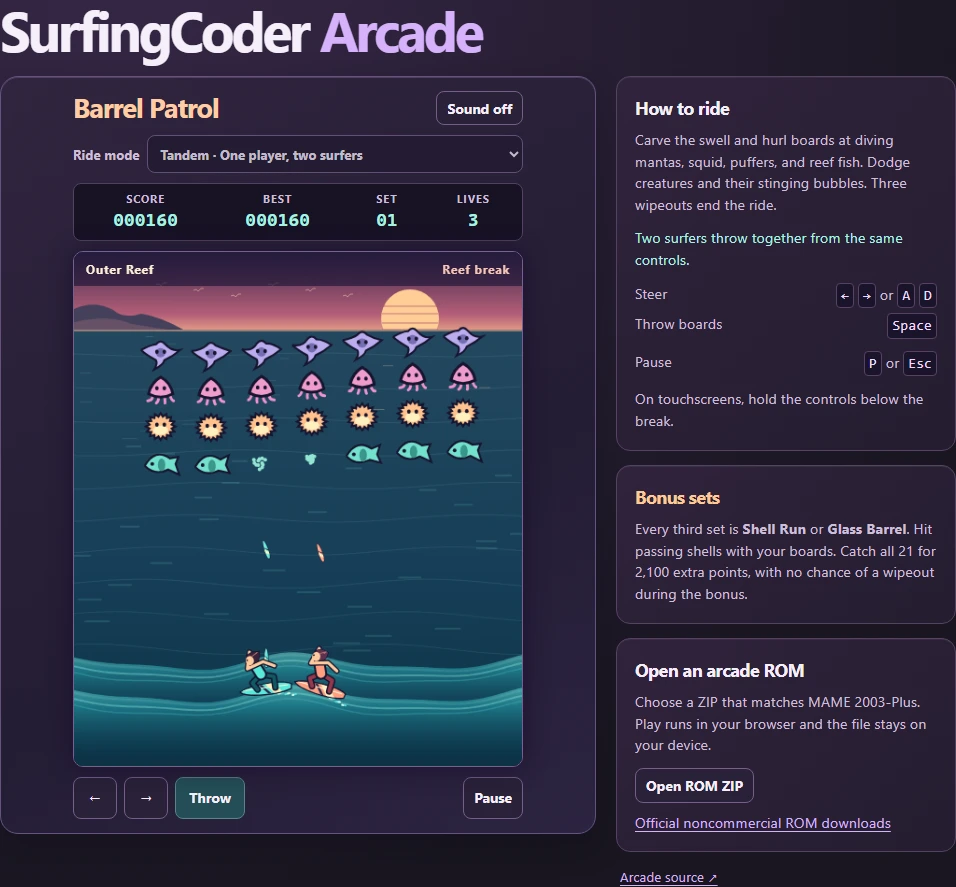
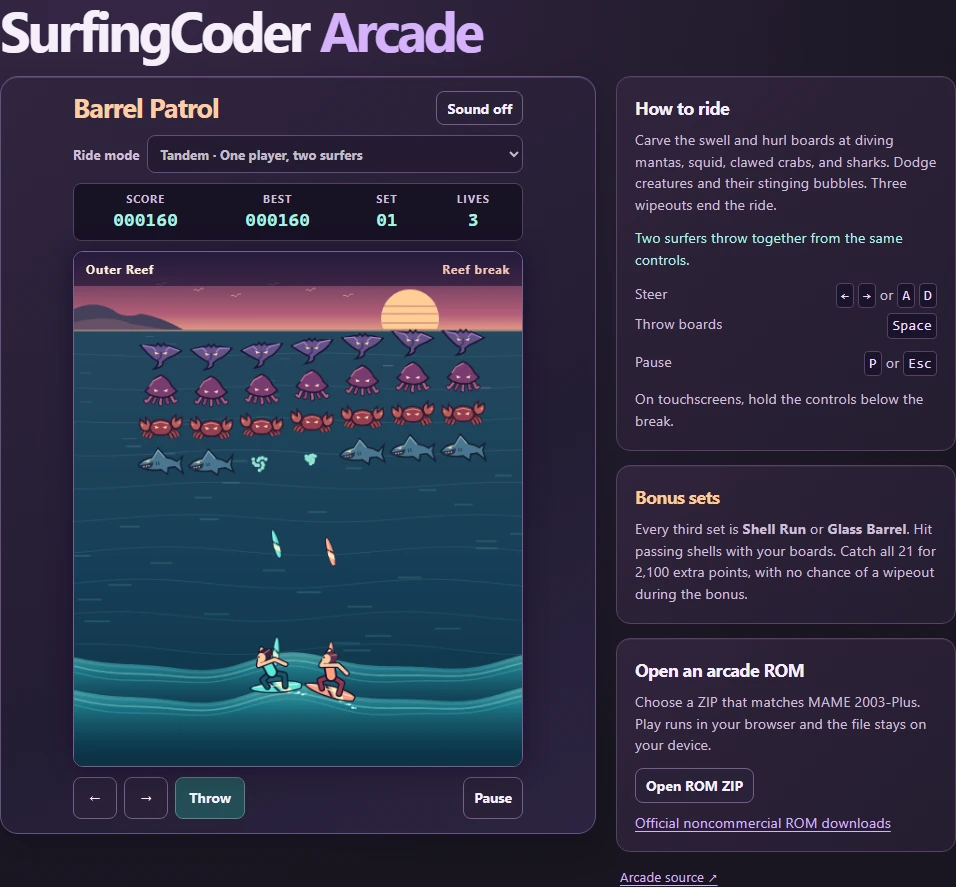
Redraw Barrel Patrol predators and thrown boards

diff --git a/patrol-art.js b/patrol-art.js
@@ -97,72 +97,148 @@ function ride(ctx, surfer, time, shield, reduced) {
   ctx.restore()
 }
 
-function creature(ctx, row, animation) {
-  ctx.strokeStyle = outline
-  ctx.lineWidth = 2.1
-  if (row === 0) {
-    ctx.fillStyle = '#bbacee'
-    ctx.beginPath()
-    ctx.moveTo(-21, -4)
-    ctx.quadraticCurveTo(-10, -6 - animation, -5, -10)
-    ctx.quadraticCurveTo(0, -16, 5, -10)
-    ctx.quadraticCurveTo(12, -6 + animation, 21, -4)
-    ctx.quadraticCurveTo(13, 3, 4, 7)
-    ctx.quadraticCurveTo(3, 12, -7, 17)
-    ctx.quadraticCurveTo(-3, 11, -5, 7)
-    ctx.quadraticCurveTo(-16, 1, -21, -4)
-    ctx.fill()
-    ctx.stroke()
-    ellipse(ctx, 0, -1, 5, 5, '#756eb0')
-  } else if (row === 1) {
-    ctx.lineCap = 'round'
-    for (const x of [-9, -3, 3, 9]) {
-      ctx.beginPath()
-      ctx.moveTo(x, 2)
-      ctx.quadraticCurveTo(x + animation * .6, 11, x * 1.54, 15 - Math.abs(x) * .4)
-      ctx.strokeStyle = '#ef93cc'
-      ctx.lineWidth = 3
-      ctx.stroke()
-    }
-    ctx.fillStyle = '#f09ccc'
-    ctx.beginPath()
-    ctx.moveTo(-13, 4)
-    ctx.quadraticCurveTo(-10, -8, 0, -14)
-    ctx.quadraticCurveTo(11, -8, 13, 4)
-    ctx.quadraticCurveTo(0, 11, -13, 4)
-    ctx.fill()
-    ctx.strokeStyle = outline
-    ctx.stroke()
-  } else if (row === 2) {
-    ctx.fillStyle = '#ffc18d'
-    ctx.beginPath()
-    for (let i = 0; i < 32; i++) {
-      const angle = i * Math.PI / 16, radius = i % 2 ? 12 : 16
-      ctx.lineTo(Math.cos(angle) * radius, Math.sin(angle) * radius * .9)
-    }
-    ctx.closePath()
-    ctx.fill()
-    ctx.stroke()
-    ellipse(ctx, 0, 4, 8, 5, '#fff0be')
-  } else {
-    ctx.fillStyle = '#73e1cd'
-    ctx.beginPath()
-    ctx.moveTo(-17, 3)
-    ctx.quadraticCurveTo(-6, -16, 10, -5)
-    ctx.lineTo(19, -9 + animation * .65)
-    ctx.lineTo(16, 1)
-    ctx.lineTo(20, 10 + animation * .65)
-    ctx.lineTo(8, 7)
-    ctx.quadraticCurveTo(-6, 14, -17, 3)
-    ctx.fill()
-    ctx.stroke()
-    ellipse(ctx, 1, 2, 4, 6.8, '#3a968b')
-    ellipse(ctx, -9, 1, 2, 2, outline)
-    return
-  }
-  ellipse(ctx, -4, -2, 1.9, 2.2, outline)
-  ellipse(ctx, 4, -2, 1.9, 2.2, outline)
+function paintCreaturePart(ctx, color, edge = outline) {
+  ctx.closePath()
+  ctx.fillStyle = color
+  ctx.fill()
+  ctx.strokeStyle = edge
+  ctx.lineWidth = 1.65
+  ctx.stroke()
 }
+
+function glare(ctx, x, y, side, color) {
+  ctx.beginPath()
+  ctx.moveTo(x - side * 2.6, y - 1.9)
+  ctx.lineTo(x + side * 2.4, y + .2)
+  ctx.lineTo(x - side * 1.6, y + 1.4)
+  ctx.closePath()
+  ctx.fillStyle = color
+  ctx.fill()
+}
+
+function manta(ctx, flap) {
+  ctx.beginPath()
+  ctx.moveTo(-22, -6 - flap * .8)
+  ctx.lineTo(-8, -9)
+  ctx.quadraticCurveTo(-5, -7, -3, -11)
+  ctx.lineTo(0, -8)
+  ctx.lineTo(3, -11)
+  ctx.quadraticCurveTo(5, -7, 8, -9)
+  ctx.lineTo(22, -6 + flap * .8)
+  ctx.quadraticCurveTo(15, 2, 7, 5)
+  ctx.quadraticCurveTo(3, 8, 2, 9)
+  ctx.quadraticCurveTo(4, 14, -7, 16)
+  ctx.quadraticCurveTo(-2, 12, -3, 8)
+  ctx.quadraticCurveTo(-9, 6, -22, -6 - flap * .8)
+  paintCreaturePart(ctx, '#65528a', '#191531')
+  stroke(ctx, [[-20, -6 - flap * .8], [-9, -7], [-5, -3]], '#ae8acf', 1.2)
+  stroke(ctx, [[20, -6 + flap * .8], [9, -7], [5, -3]], '#ae8acf', 1.2)
+  stroke(ctx, [[0, -2], [0, 4], [-4, 7]], '#3f315f', 1.4)
+  glare(ctx, -4.2, -.5, 1, '#ffd8a0')
+  glare(ctx, 4.2, -.5, -1, '#ffd8a0')
+}
+
+function squid(ctx, ripple) {
+  ctx.lineCap = 'round'
+  for (const x of [-10, -5, 0, 5, 10]) {
+    ctx.beginPath()
+    ctx.moveTo(x * .76, 3)
+    ctx.bezierCurveTo(x * 1.5 + ripple * .38, 10, x * 1.35 - ripple * .55, 15, x * 1.65, 15 - Math.abs(x) * .4)
+    ctx.strokeStyle = '#221630'
+    ctx.lineWidth = 4.4
+    ctx.stroke()
+    ctx.strokeStyle = x % 2 ? '#944478' : '#b76088'
+    ctx.lineWidth = 2.45
+    ctx.stroke()
+  }
+  ctx.beginPath()
+  ctx.moveTo(0, -16)
+  ctx.quadraticCurveTo(8, -13, 12, -4)
+  ctx.lineTo(17, 1)
+  ctx.lineTo(12, 5)
+  ctx.quadraticCurveTo(3, 11, -12, 5)
+  ctx.lineTo(-17, 1)
+  ctx.lineTo(-12, -4)
+  ctx.quadraticCurveTo(-8, -13, 0, -16)
+  paintCreaturePart(ctx, '#793c70', '#221630')
+  stroke(ctx, [[-12, -4], [-8, -10], [0, -14]], '#c67b9e', 1.4)
+  glare(ctx, -4.9, .6, 1, '#ffe9bf')
+  glare(ctx, 4.9, .6, -1, '#ffe9bf')
+}
+
+function crab(ctx, snap) {
+  for (const side of [-1, 1]) {
+    ctx.save()
+    ctx.scale(side, 1)
+    for (const [i, reach] of [19, 16, 12].entries()) {
+      const leg = [[8, 3 + i * 1.3], [reach - 2, 6 + i], [reach, 10 + i + snap * .13]]
+      stroke(ctx, leg, '#2d1b32', 4.4)
+      stroke(ctx, leg, '#a64a51', 2.45)
+    }
+    const claw = -1 - snap * .38 * side
+    stroke(ctx, [[8, 0], [14, claw + 4], [17, claw]], '#452838', 4.7)
+    ctx.beginPath()
+    ctx.moveTo(14, claw + 4)
+    ctx.quadraticCurveTo(9, claw, 12, claw - 6)
+    ctx.lineTo(16, claw - 10)
+    ctx.lineTo(16, claw - 3.5)
+    ctx.lineTo(22, claw - 8)
+    ctx.quadraticCurveTo(24, claw, 20, claw + 3)
+    ctx.quadraticCurveTo(17, claw + 5, 14, claw + 4)
+    paintCreaturePart(ctx, '#bb5c5b', '#321b32')
+    stroke(ctx, [[19, claw - 1], [21, claw - 3]], '#ee9a83', 1.3)
+    ctx.restore()
+  }
+  ctx.beginPath()
+  ctx.moveTo(-12, 1)
+  ctx.lineTo(-9, -5)
+  ctx.quadraticCurveTo(0, -10, 9, -5)
+  ctx.lineTo(12, 1)
+  ctx.quadraticCurveTo(10, 10, 0, 9)
+  ctx.quadraticCurveTo(-10, 10, -12, 1)
+  paintCreaturePart(ctx, '#963e50', '#321b32')
+  stroke(ctx, [[-8, -3], [0, -5], [8, -3]], '#e48576', 1.15)
+  glare(ctx, -4, .8, 1, '#ffe1aa')
+  glare(ctx, 4, .8, -1, '#ffe1aa')
+}
+
+function shark(ctx, tail) {
+  ctx.beginPath()
+  ctx.moveTo(-24, 2)
+  ctx.quadraticCurveTo(-19, -5, -9, -6)
+  ctx.lineTo(-3, -16)
+  ctx.lineTo(6, -6)
+  ctx.quadraticCurveTo(12, -5.5, 17, -2)
+  ctx.lineTo(23, -9 + tail * .58)
+  ctx.lineTo(21, 1)
+  ctx.lineTo(24, 9 + tail * .58)
+  ctx.lineTo(15, 4)
+  ctx.lineTo(8, 5)
+  ctx.lineTo(7, 12)
+  ctx.lineTo(0, 7)
+  ctx.quadraticCurveTo(-14, 9, -23, 4)
+  paintCreaturePart(ctx, '#4b7790', '#152032')
+  stroke(ctx, [[-19, -1], [-9, -4.5], [-3, -14], [4, -6]], '#8cb4c3', 1.15)
+  ctx.beginPath()
+  ctx.moveTo(-22, 3)
+  ctx.quadraticCurveTo(-15, 3, -9, 0)
+  ctx.quadraticCurveTo(-9, 6, -20, 5.2)
+  paintCreaturePart(ctx, '#432940', '#263349')
+  ctx.fillStyle = '#f1e2c6'
+  for (let i = 0; i < 3; i++) {
+    const x = -19 + 2.65 * i, y = 3.35 - .42 * i
+    ctx.beginPath()
+    ctx.moveTo(x, y)
+    ctx.lineTo(x + 1.7, y - .3)
+    ctx.lineTo(x + 1, y + 1.5)
+    ctx.fill()
+  }
+  glare(ctx, -14.5, -1.9, -1, '#ffd5a0')
+  stroke(ctx, [[-5, -1.4], [-4.3, 2.5]], '#263e56', 1.1)
+  stroke(ctx, [[-2.5, -1.6], [-1.8, 2.1]], '#263e56', 1.1)
+}
+
+const creatures = [manta, squid, crab, shark]
 
 function shell(ctx) {
   ctx.fillStyle = '#ffcc86'
@@ -281,7 +357,7 @@ export function drawPatrol(ctx, game, reduced) {
         ellipse(ctx, 5, -31, 2.6, 2.6, '#b9ffeb86')
       }
       const ripple = Math.sin(time * 5 + foe.col) * 5
-      creature(ctx, foe.row, ripple)
+      creatures[foe.row](ctx, ripple)
     }
     ctx.restore()
   }
@@ -289,7 +365,7 @@ export function drawPatrol(ctx, game, reduced) {
     ctx.save()
     ctx.translate(shot.x, shot.y)
     ctx.rotate(-Math.PI / 2 + Math.sin(shot.age * 24) * .38)
-    board(ctx, jerseys[shot.owner], .38)
+    board(ctx, jerseys[shot.owner], .57)
     ctx.restore()
   }
   for (const shot of game.enemyShots) {

diff --git a/index.html b/index.html
@@ -6,7 +6,7 @@
   <meta name="description" content="Play Barrel Patrol, a surf arcade game with tandem and co-op rides, or open a compatible MAME arcade ROM ZIP locally.">
   <title>SurfingCoder Arcade</title>
   <link rel="stylesheet" href="./style.css?v=20261120-surf">
-  <script type="module" src="./arcade.js?v=20261120-surf"></script>
+  <script type="module" src="./arcade.js?v=20261120-reef"></script>
 </head>
 <body>
   <main class="arcade" id="arcade">
@@ -69,7 +69,7 @@
       <aside class="side">
         <section class="panel rules">
           <h2>How to ride</h2>
-          <p>Carve the swell and hurl boards at diving mantas, squid, puffers, and reef fish. Dodge creatures and their stinging bubbles. Three wipeouts end the ride.</p>
+          <p>Carve the swell and hurl boards at diving mantas, squid, clawed crabs, and sharks. Dodge creatures and their stinging bubbles. Three wipeouts end the ride.</p>
           <p id="ride-help">One surfer. Steer with the arrows or A and D.</p>
           <dl class="keys" data-shared-controls>
             <div><dt>Steer</dt><dd><kbd>←</kbd> <kbd>→</kbd> or <kbd>A</kbd> <kbd>D</kbd></dd></div>

diff --git a/arcade.js b/arcade.js
@@ -1,5 +1,5 @@
 import {createGame, stageName, update} from './patrol.js?v=20261120-surf'
-import {drawPatrol} from './patrol-art.js?v=20261120-surf'
+import {drawPatrol} from './patrol-art.js?v=20261120-reef'
 
 const $ = id => document.getElementById(id)
 const ctx = $('playfield').getContext('2d')

diff --git a/README.md b/README.md
@@ -1,6 +1,6 @@
 # SurfingCoder Arcade
 
-[Play Barrel Patrol](https://surfingcoder.com/arcade/), an original formation shooter set on a sunset reef break. Ride the moving crests and throw surfboards at mantas, squid, puffers, and reef fish. Dodge diving creatures and stinging bubbles. Three wipeouts end the ride.
+[Play Barrel Patrol](https://surfingcoder.com/arcade/), an original formation shooter set on a sunset reef break. Ride the moving crests and throw surfboards at mantas, squid, clawed crabs, and sharks. Dodge diving creatures and stinging bubbles. Three wipeouts end the ride.
 
 ![Two surfers throwing boards in Barrel Patrol](docs/arcade.webp)
 
